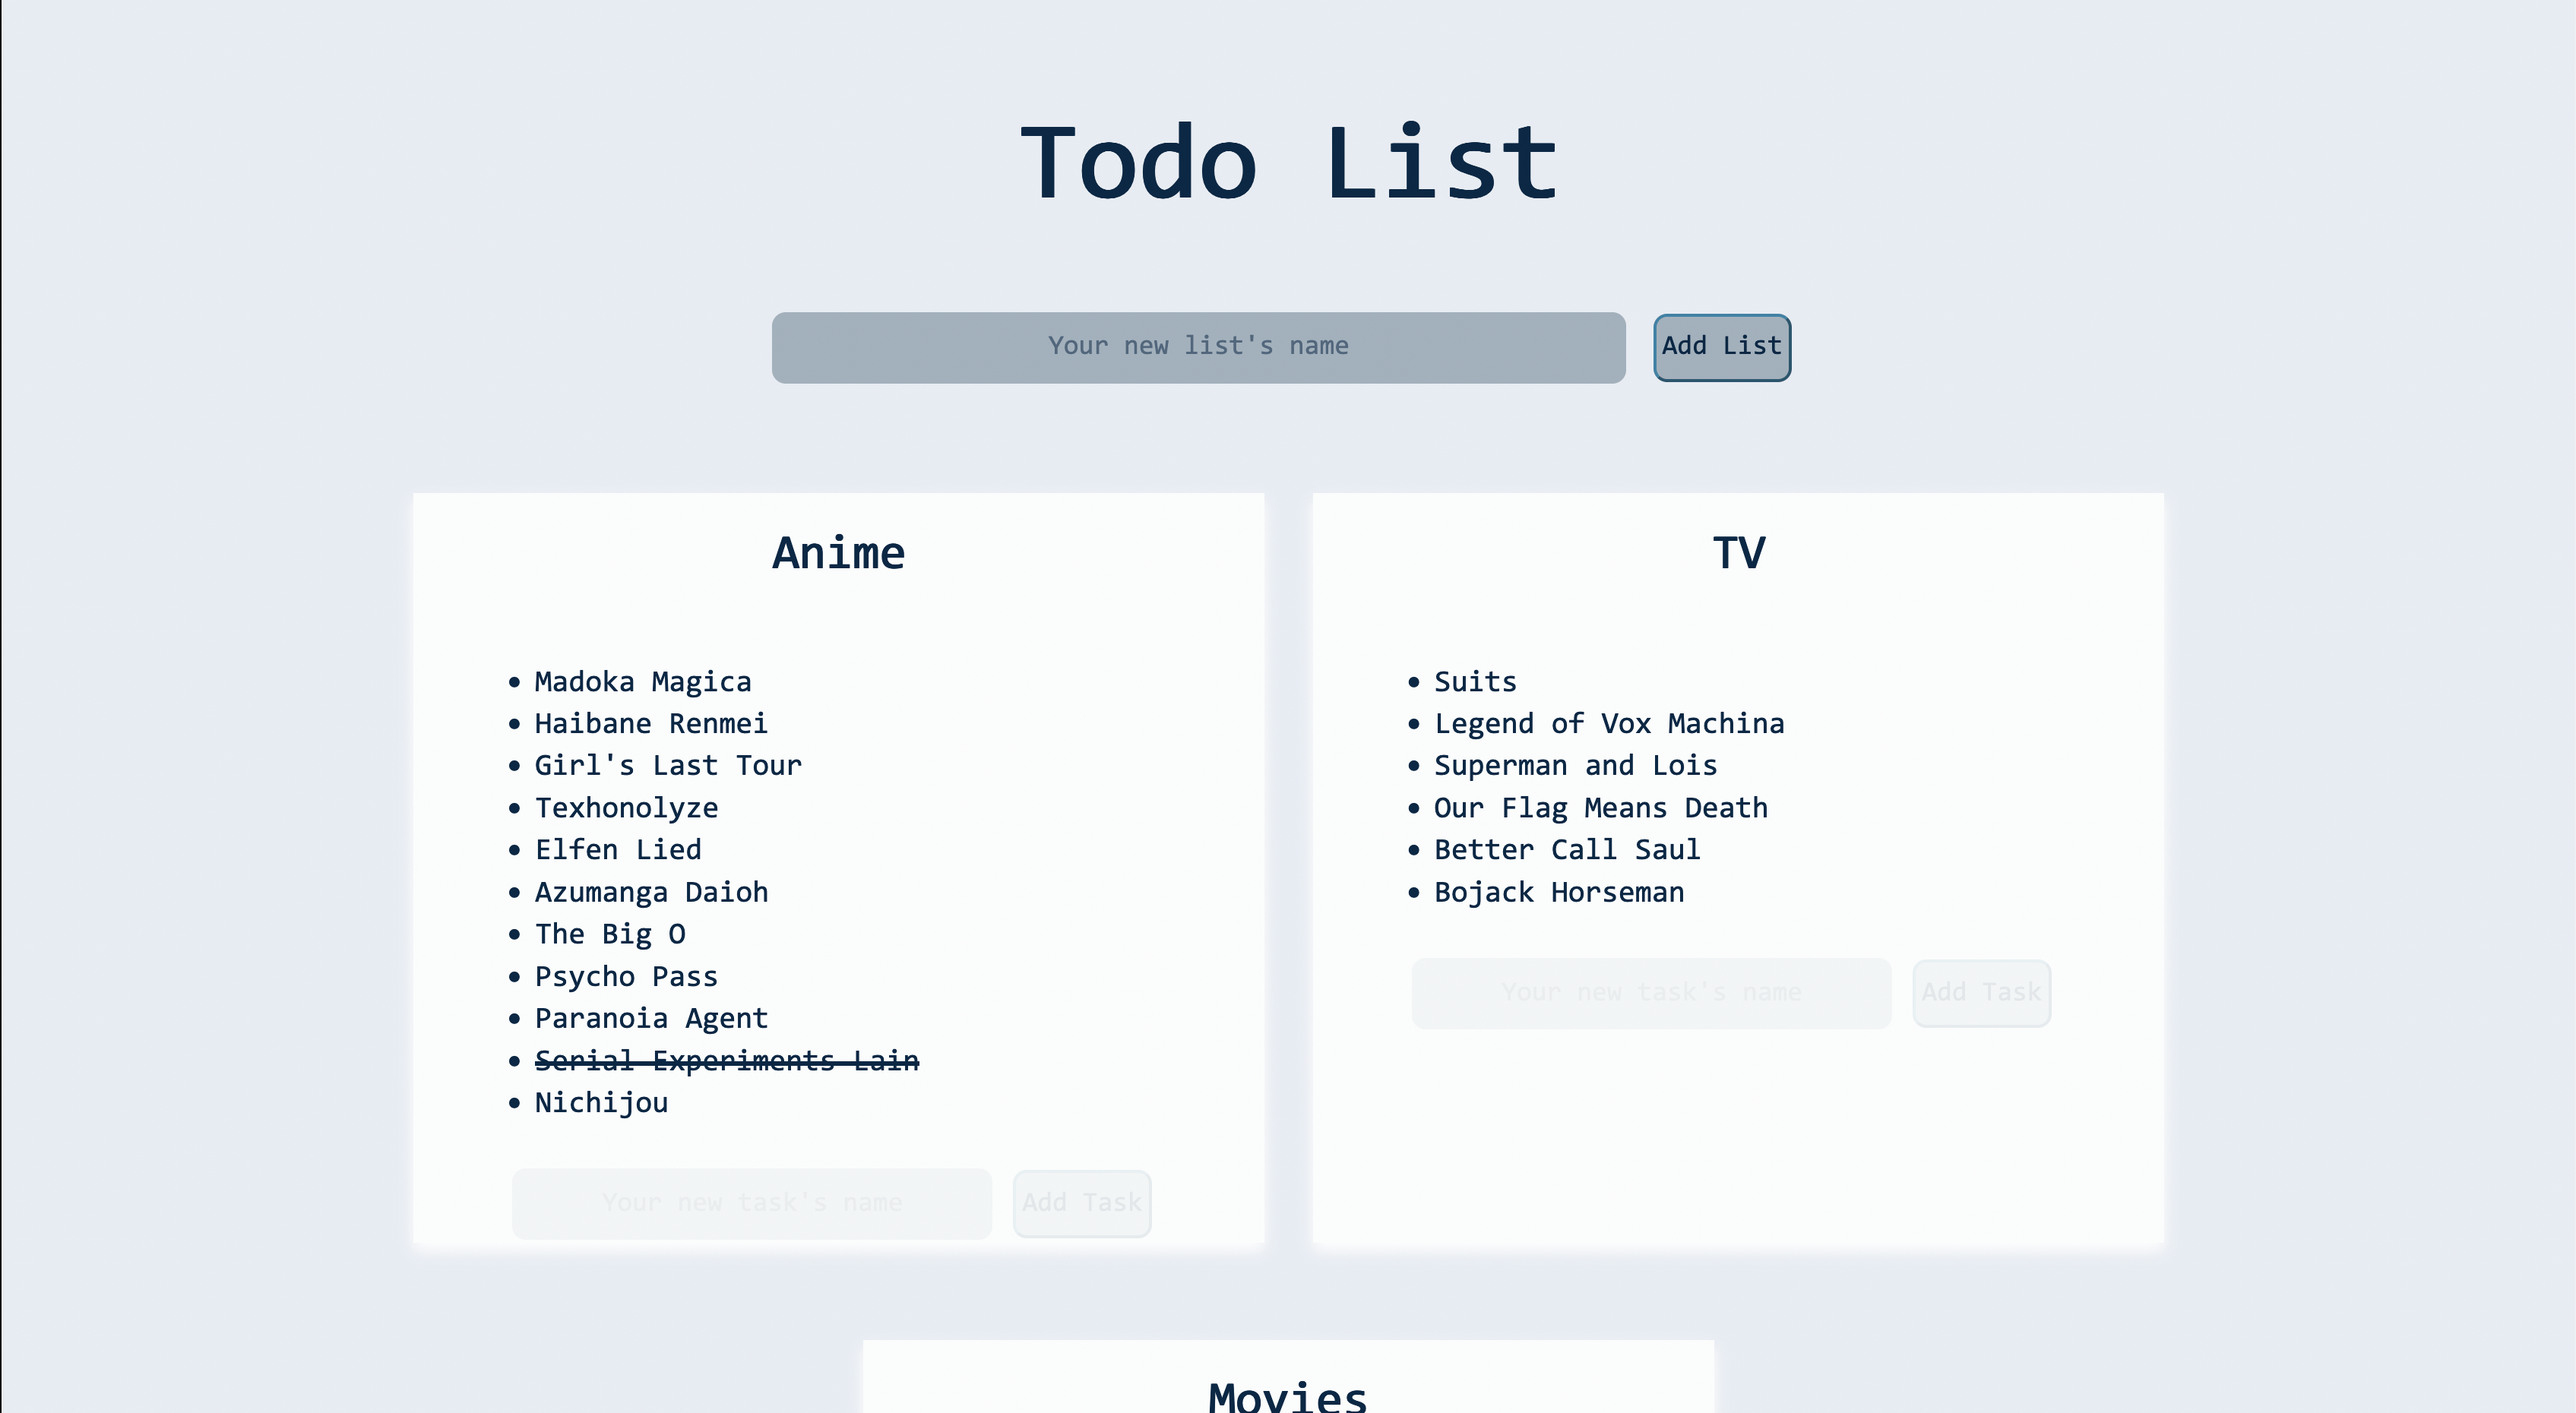
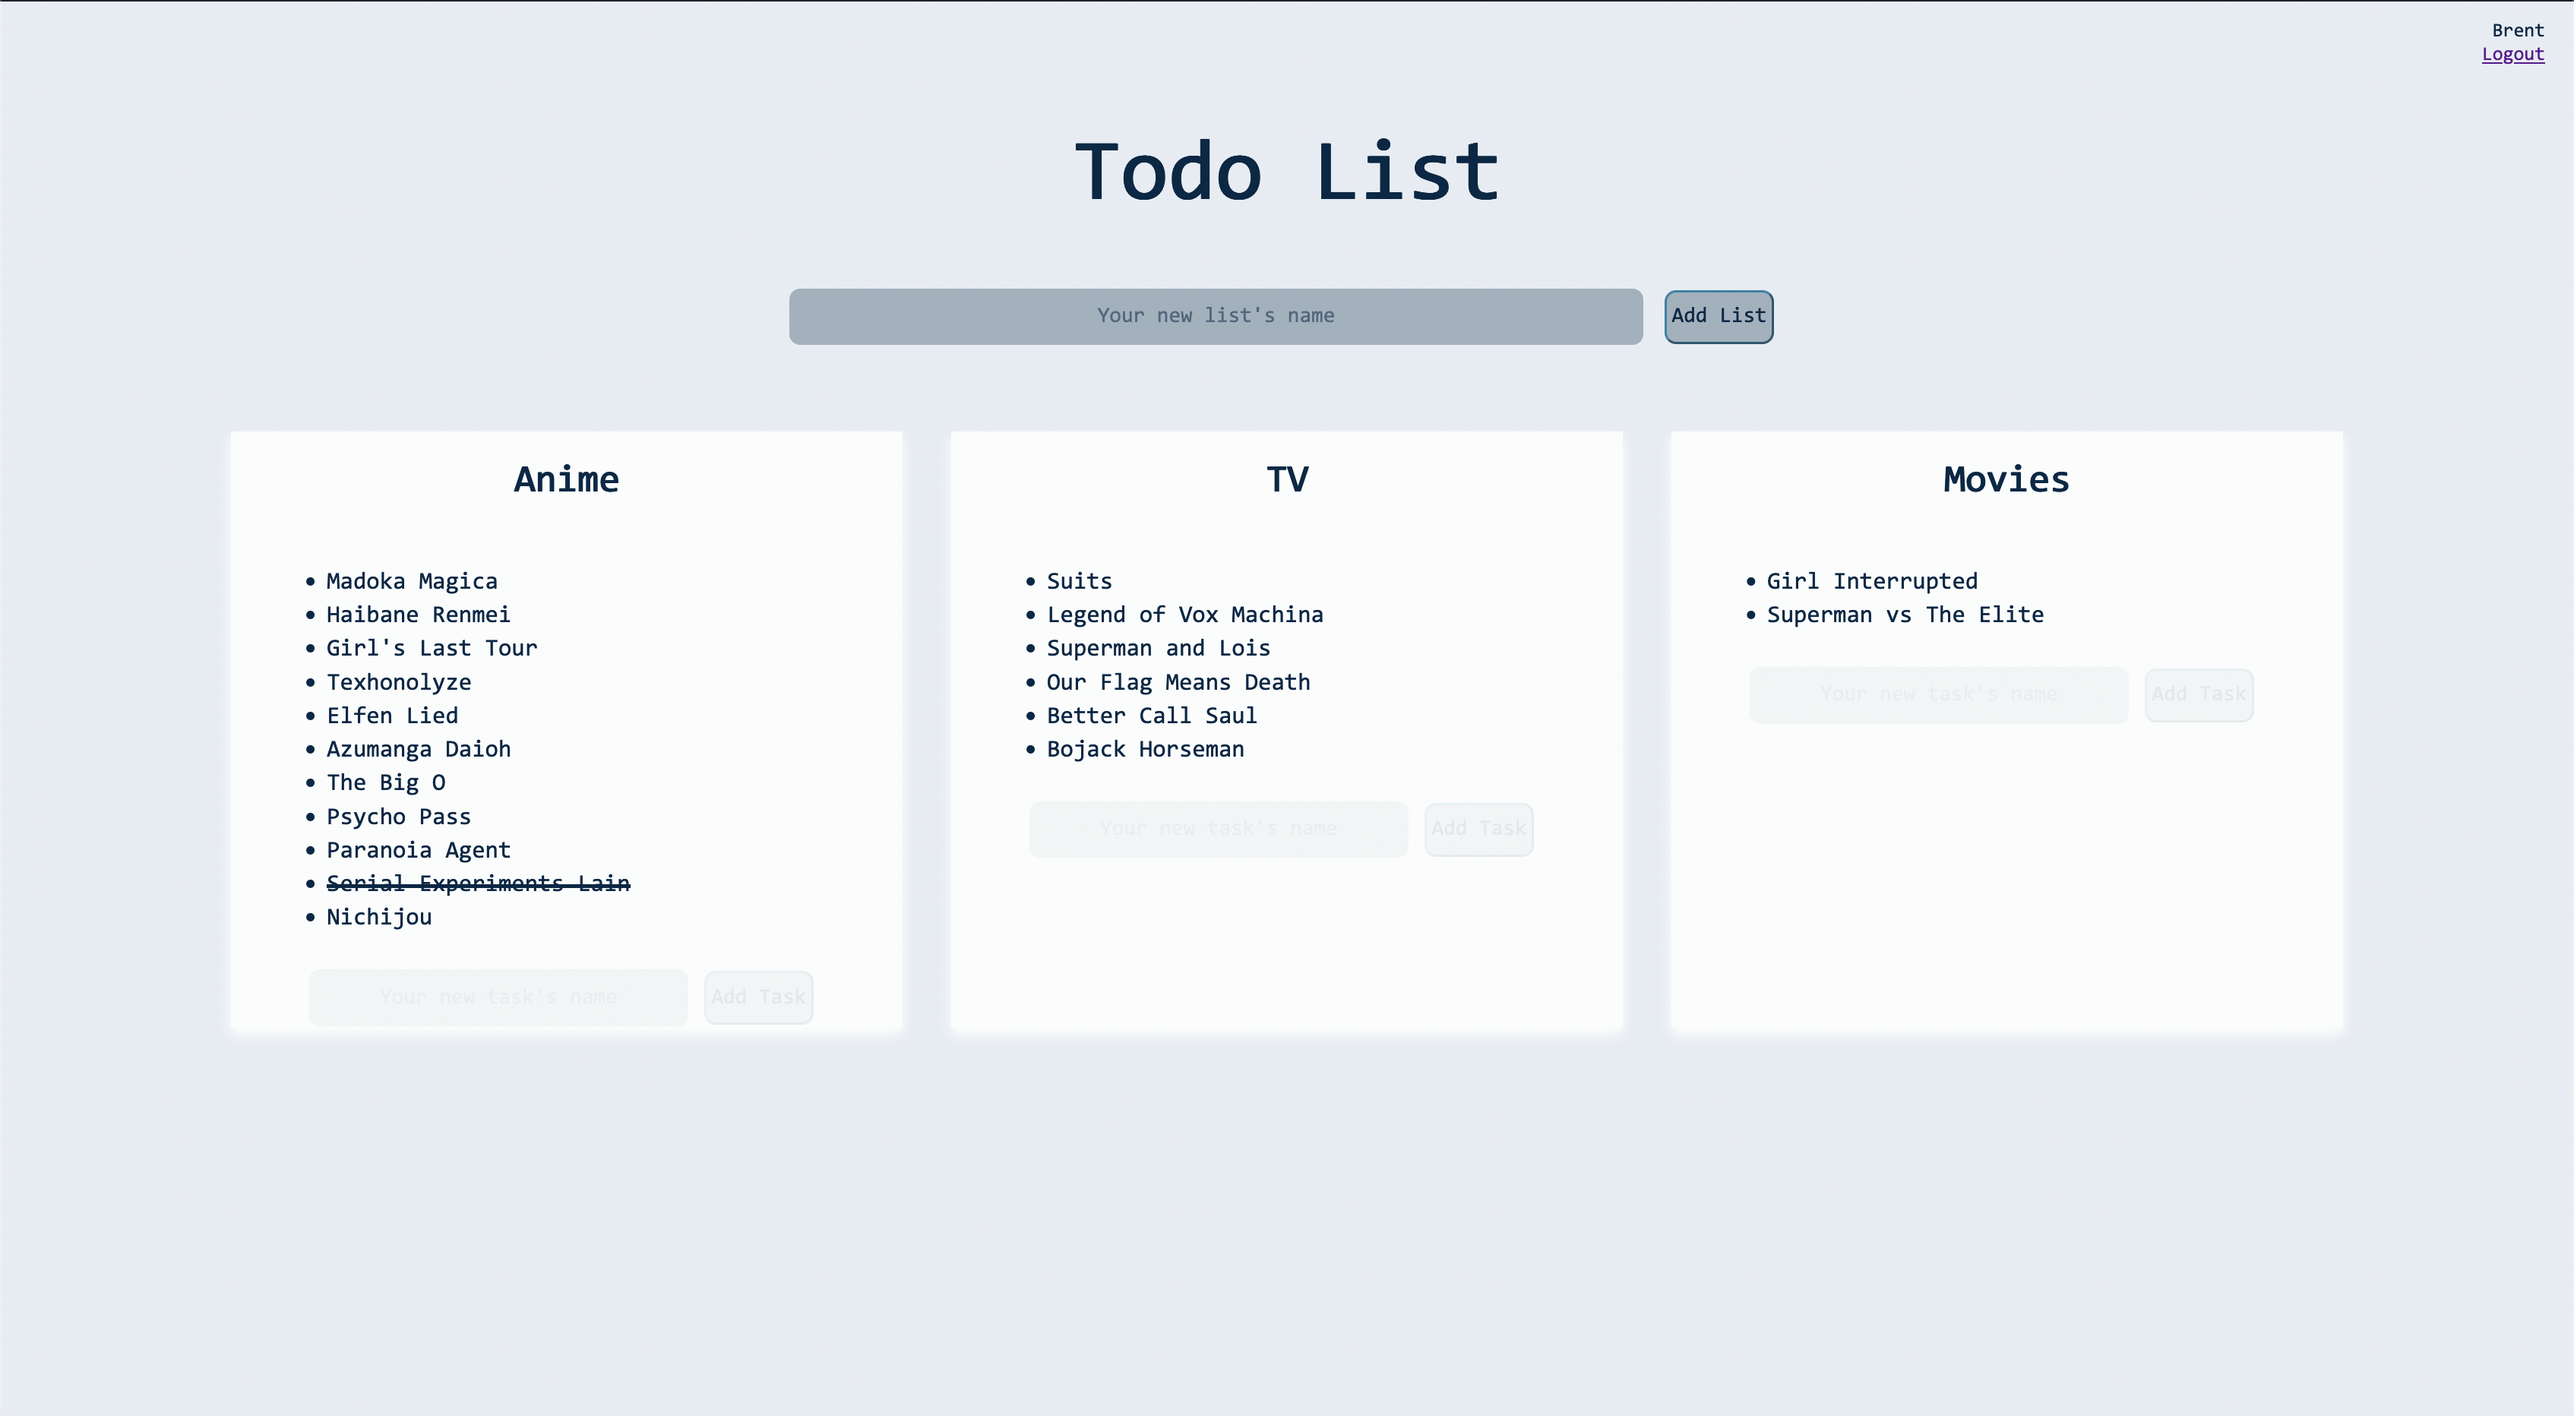
add new cover. add logout button

diff --git a/static/todo_login/stylesheet.css b/static/todo_login/stylesheet.css
@@ -5,8 +5,21 @@ body {
 }
 
 #header {
+	display: flex;
+	justify-content: right;
+	margin: 16px 16px 0 0;
+}
+
+#info {
+	display: flex;
+	flex-direction: column;
+	justify-content: center;
+	text-align: right;
+}
+
+#banner {
 	width: 50%;
-	margin: 75px auto 0px;
+	margin: 50px auto 0px;
 	text-align: center;
 	font-size: 36px;
 }
@@ -74,7 +87,7 @@ body {
 }
 
 .add-item {
-	margin: auto auto 1.em auto;
+	margin: auto auto 1em auto;
 }
 
 .add-item > input[type=text],

diff --git a/templates/todo_login/index.htm b/templates/todo_login/index.htm
@@ -8,6 +8,12 @@
 </head>
 <body>
 	<div id="header">
+		<div id="info">
+			<span>{{ session['given_name'] }}</span>
+			<a href="/logout">Logout</a>
+		</div>
+	</div>
+	<div id="banner">
 		<h1>Todo List</h1>
 	</div>
 	<div id="content">
